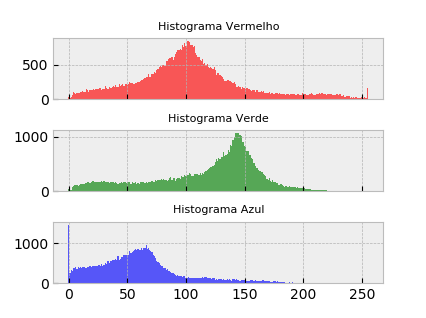
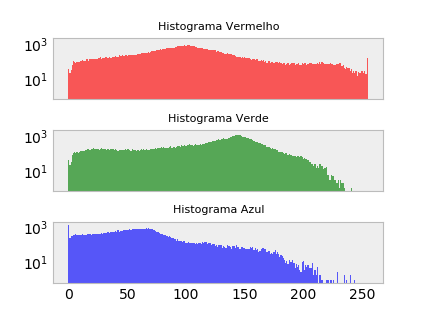
Adds sharey in histogram

diff --git a/src/image_processing/data.py b/src/image_processing/data.py
@@ -24,7 +24,7 @@ def histogram(img, filename):
     """
     plt.style.use('bmh')
     r_hist, g_hist, b_hist = histograma_bandas(img)
-    fig, axarr = plt.subplots(3, sharex=True, figsize=(4.26, 3.18))
+    fig, axarr = plt.subplots(3, sharex=True, sharey=True, figsize=(4.26, 3.18))
     plt.subplots_adjust(hspace=.5)
     x = list(range(256))
     axarr[0].bar(x, height=r_hist, color='red', alpha=.64, width=1, log=True)
@@ -39,4 +39,4 @@ def histogram(img, filename):
     axarr[2].set_title('Histograma Azul', fontsize=8)
     axarr[2].tick_params(axis='both', which='both', length=0)
     axarr[2].grid(False)
-    plt.savefig(filename, bbox_inches="tight")
+    plt.savefig(filename)
